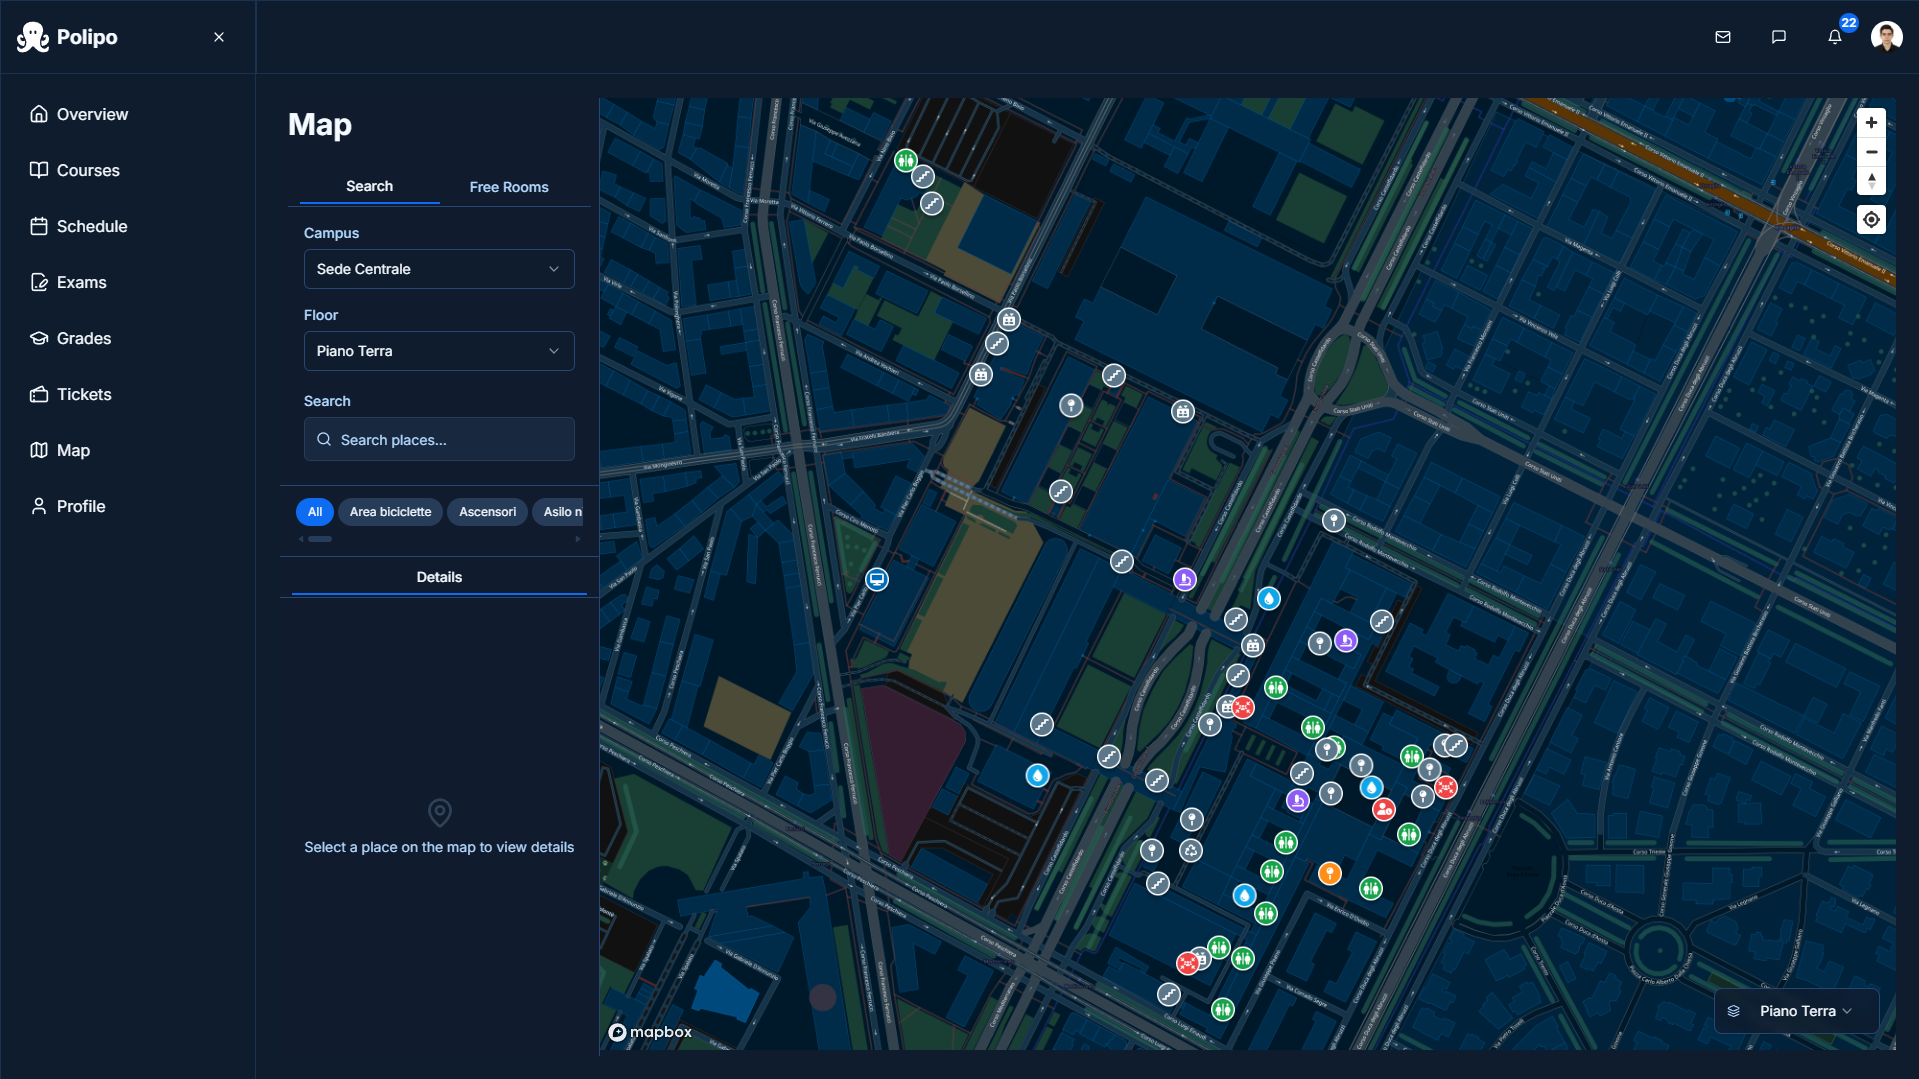
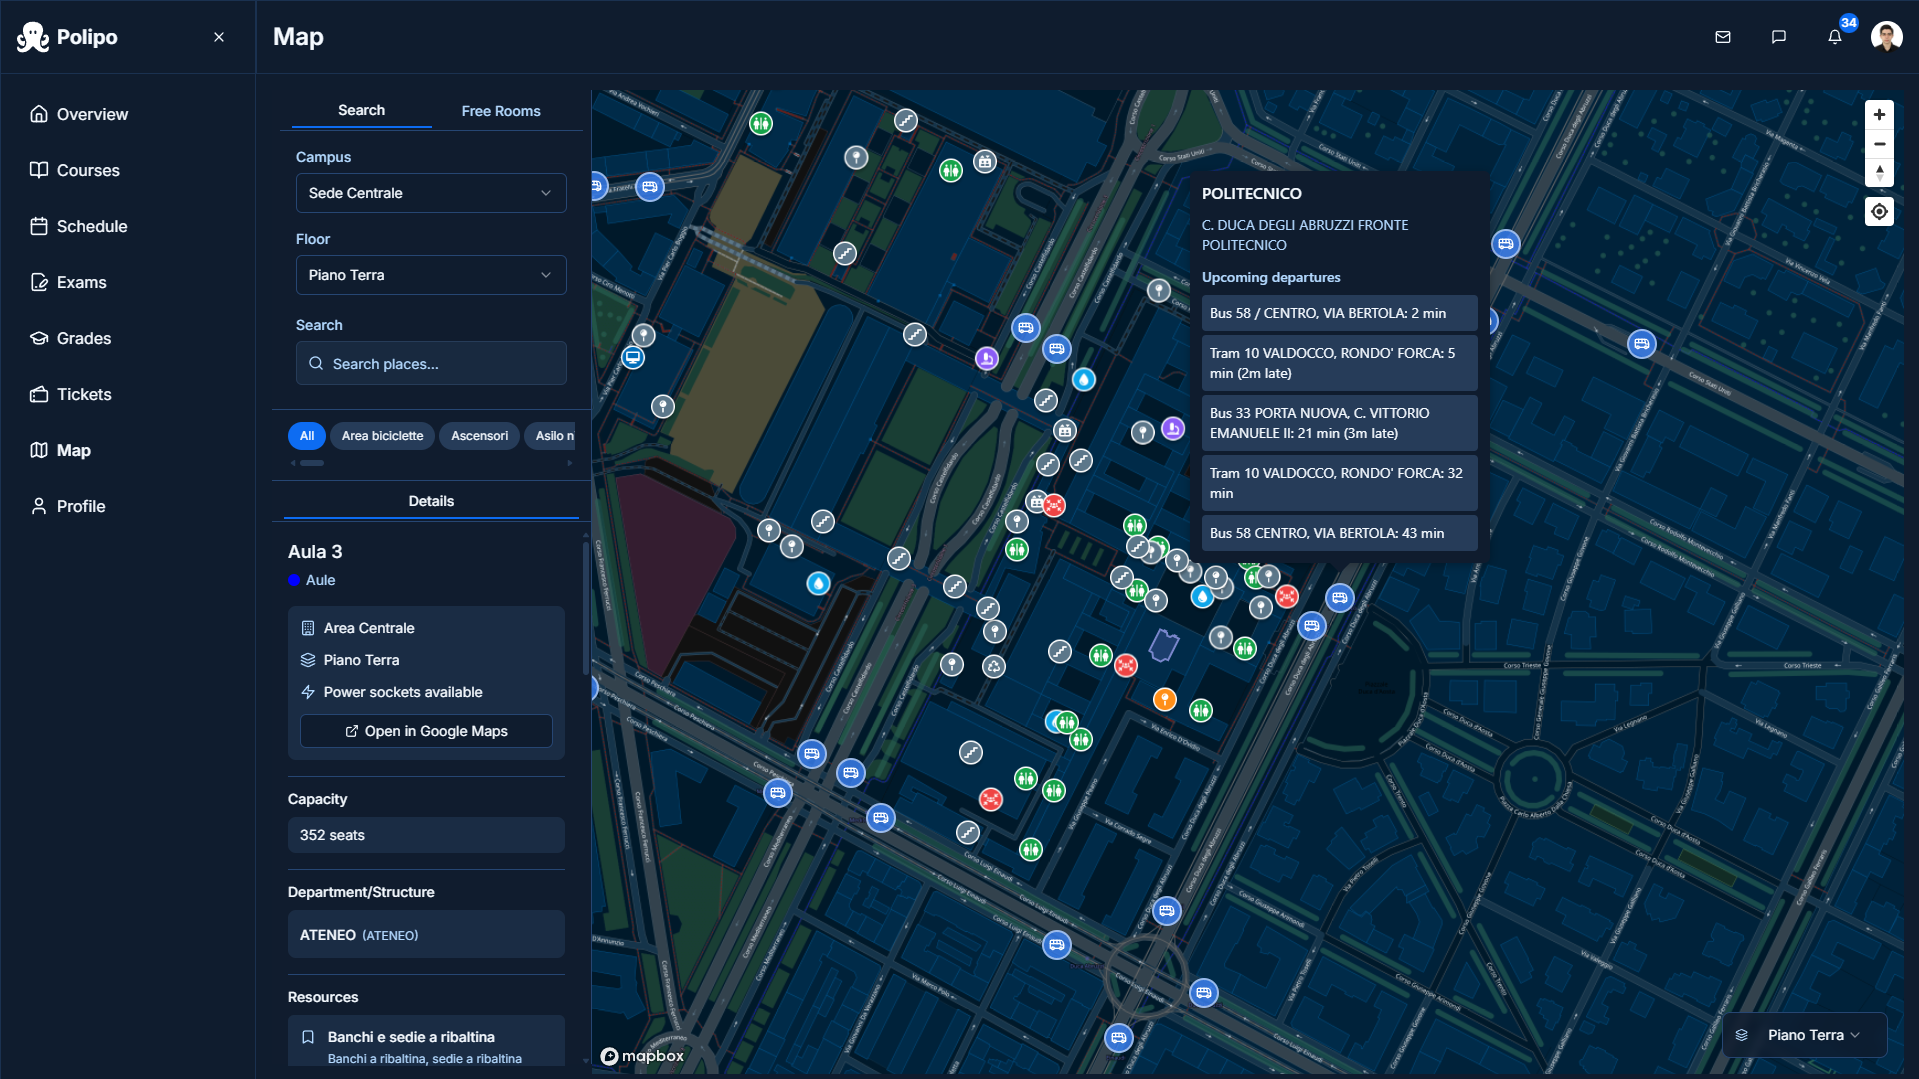
feat: gtt support and power socket availability to map

diff --git a/README.md b/README.md
@@ -105,11 +105,13 @@ Use this checklist to track upcoming work.
 - [x] Add proper login device info
 - [x] Add date order to exam page
 - [x] Fix bugs with free room display, exam booking, etc.  
-- [x] Added support for weekend classes
+- [x] Add support for weekend classes
 - [x] Add next lecture to course info
 - [x] Add surveys
 - [x] Add following, followers, and profile features
 - [x] Add support for sso login (unofficial)
+- [x] Display power sockets if available in the room for map
+- [x] Add GTT public transport support to map (main campus only)
 - [ ] Add multi-language support (Italian, English, and Turkish)
 - [ ] Redesign email client
 - [ ] Add support for creating tickets
